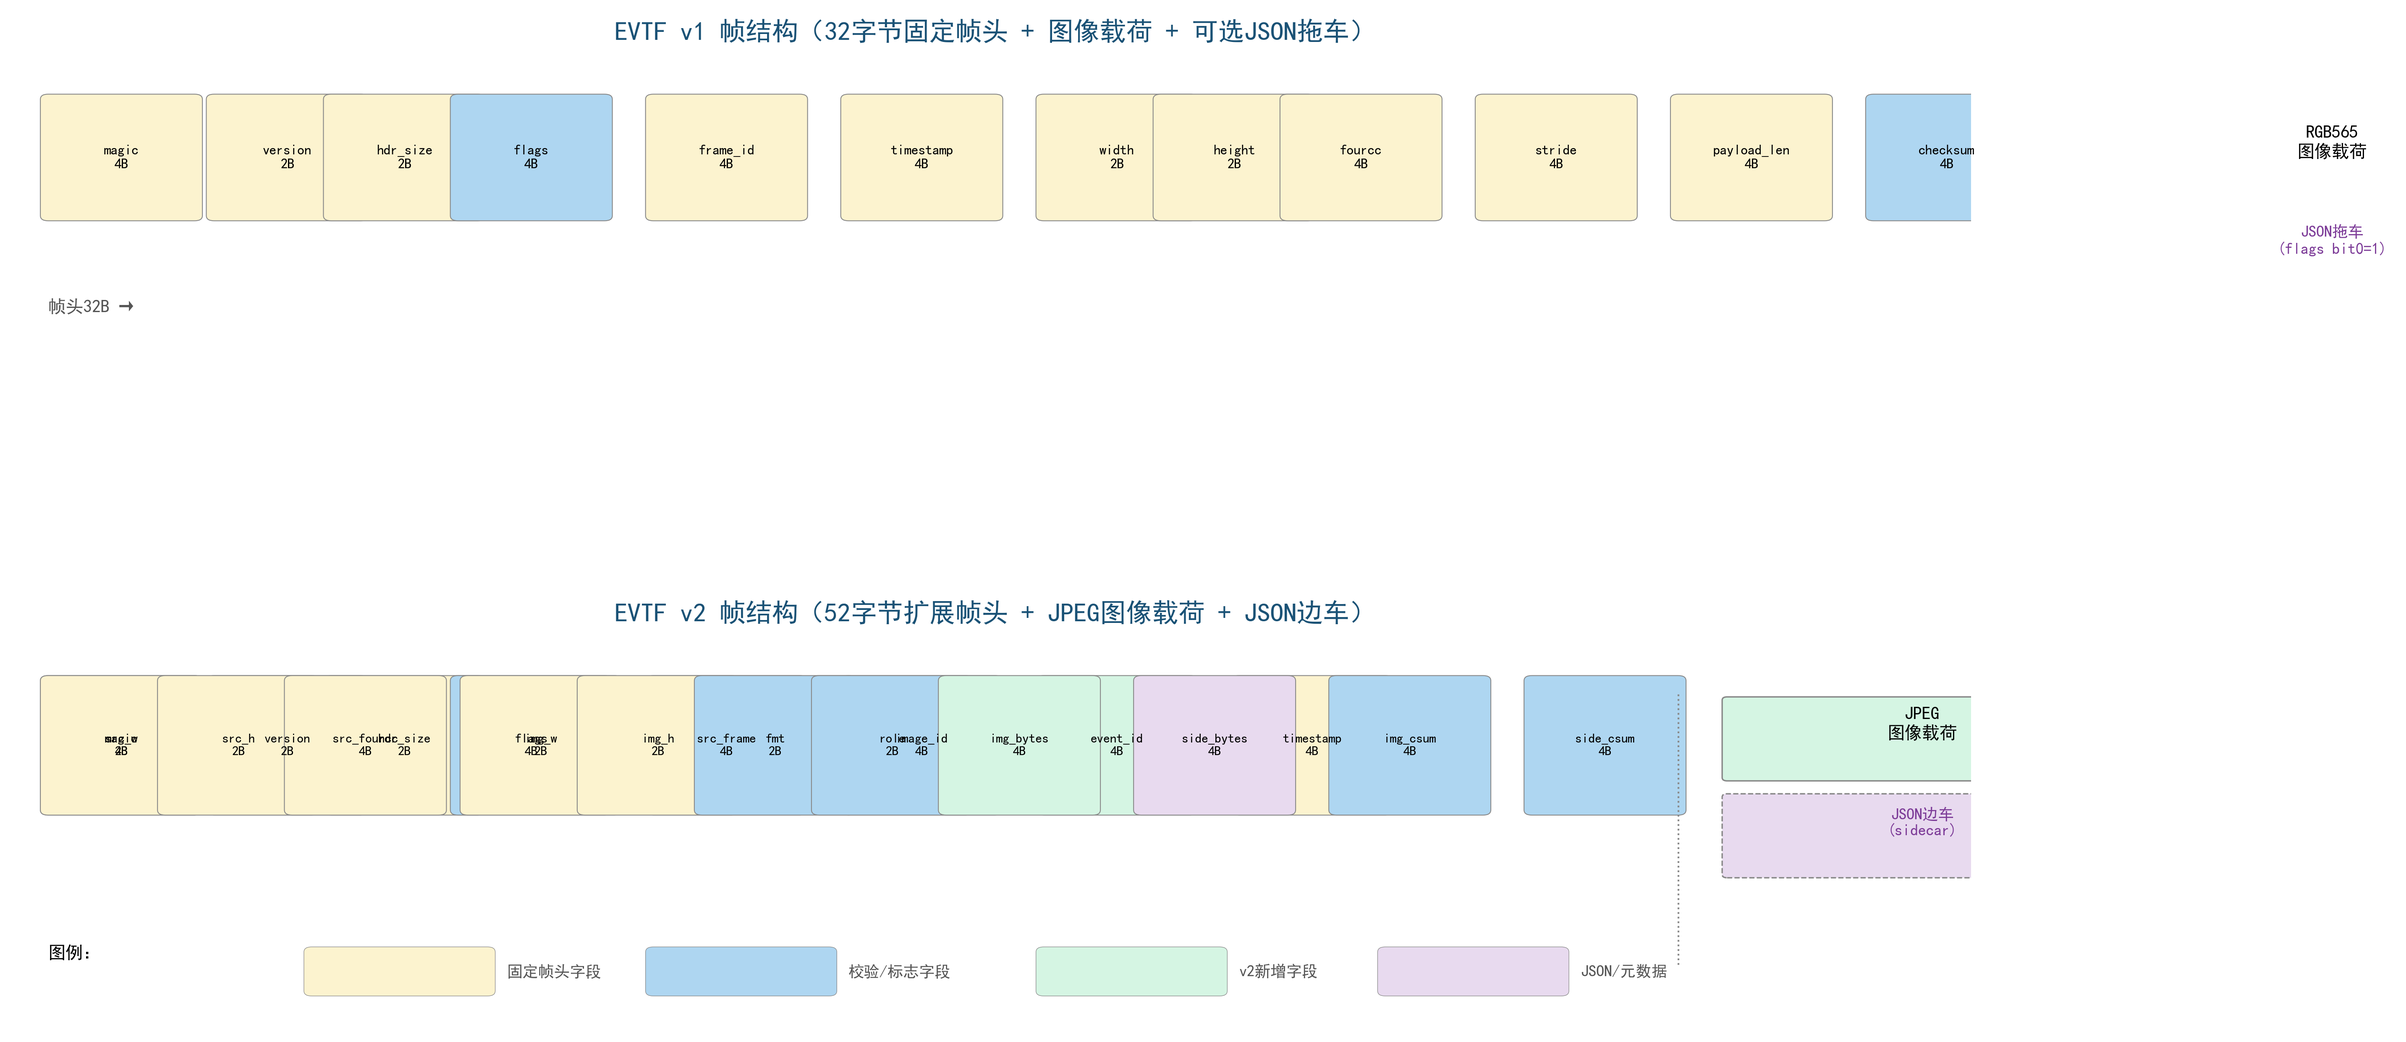
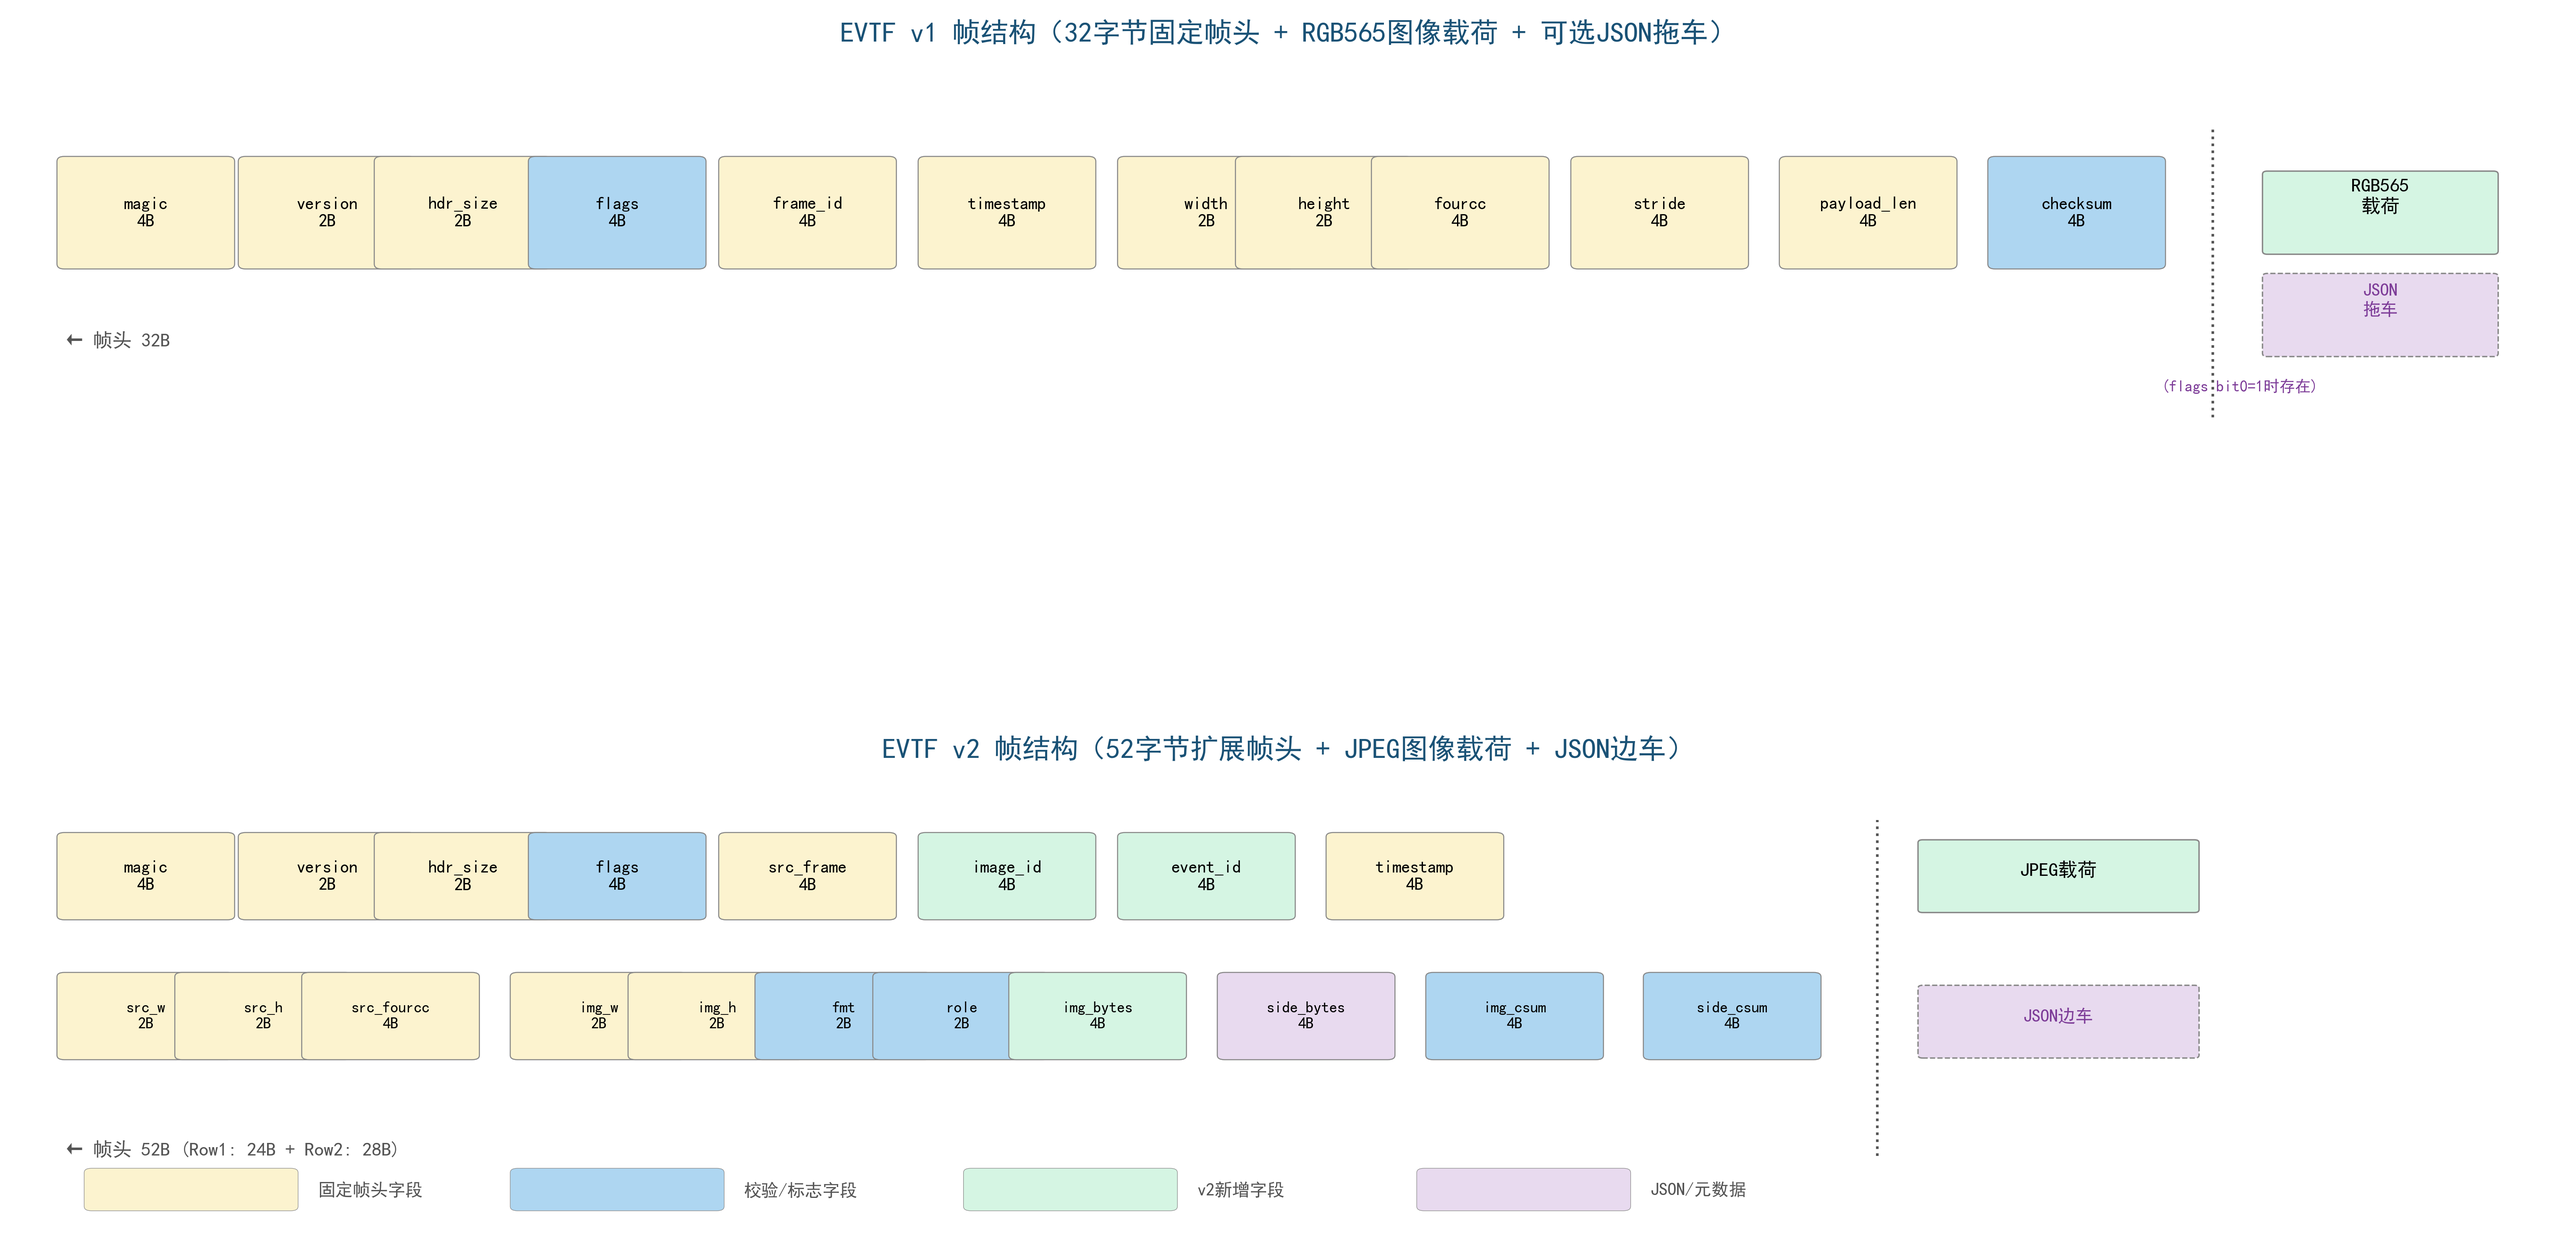
重绘图9-11：宽幅26inch、v2分两行排列字段、字体放大至10pt、右边界留足空间

diff --git a/tools/generate_figures.py b/tools/generate_figures.py
@@ -395,66 +395,77 @@ def fig_9_10():
 # 图9-11 EVTF v1/v2帧结构对比
 # ============================================================
 def fig_9_11():
-    fig, (ax1, ax2) = plt.subplots(2, 1, figsize=(20, 10))
-    fig.subplots_adjust(hspace=0.5)
+    """EVTF帧结构对比 — 宽幅单行布局，v1上 v2下，字段清晰可读"""
+    fig, (ax1, ax2) = plt.subplots(2, 1, figsize=(26, 12))
+    fig.subplots_adjust(hspace=0.6)
 
-    # === v1 ===
-    ax1.set_xlim(0, 20); ax1.set_ylim(0, 6); ax1.axis("off")
-    ax1.set_title("EVTF v1 帧结构（32字节固定帧头 + 图像载荷 + 可选JSON拖车）", fontsize=15, weight="bold", pad=8, color="#1A5276")
+    # === v1: 12 fields in one row ===
+    ax1.set_xlim(0, 28); ax1.set_ylim(0, 7); ax1.axis("off")
+    ax1.set_title("EVTF v1 帧结构（32字节固定帧头 + RGB565图像载荷 + 可选JSON拖车）",
+                  fontsize=16, weight="bold", pad=10, color="#1A5276")
 
-    v1_fields = [
-        ("magic\n4B", 0.3, "#FCF3CF"), ("version\n2B", 2.0, "#FCF3CF"), ("hdr_size\n2B", 3.2, "#FCF3CF"),
-        ("flags\n4B", 4.5, "#AED6F1"), ("frame_id\n4B", 6.5, "#FCF3CF"), ("timestamp\n4B", 8.5, "#FCF3CF"),
-        ("width\n2B", 10.5, "#FCF3CF"), ("height\n2B", 11.7, "#FCF3CF"), ("fourcc\n4B", 13.0, "#FCF3CF"),
-        ("stride\n4B", 15.0, "#FCF3CF"), ("payload_len\n4B", 17.0, "#FCF3CF"), ("checksum\n4B", 19.0, "#AED6F1"),
+    v1 = [
+        ("magic\n4B", 0.5, "#FCF3CF"), ("version\n2B", 2.5, "#FCF3CF"), ("hdr_size\n2B", 4.0, "#FCF3CF"),
+        ("flags\n4B", 5.7, "#AED6F1"), ("frame_id\n4B", 7.8, "#FCF3CF"), ("timestamp\n4B", 10.0, "#FCF3CF"),
+        ("width\n2B", 12.2, "#FCF3CF"), ("height\n2B", 13.5, "#FCF3CF"), ("fourcc\n4B", 15.0, "#FCF3CF"),
+        ("stride\n4B", 17.2, "#FCF3CF"), ("payload_len\n4B", 19.5, "#FCF3CF"), ("checksum\n4B", 21.8, "#AED6F1"),
     ]
-    for txt, x, c in v1_fields:
-        box(ax1, x, 3.5, 1.5, 1.8, txt, color=c, fontsize=8, bold=True, lw=0.5)
-    # 图像载荷
-    r1 = FancyBboxPatch((21.2, 3.8), 5, 1.2, boxstyle="round,pad=0.05",
+    for txt, x, c in v1:
+        box(ax1, x, 3.8, 1.8, 1.6, txt, color=c, fontsize=10, bold=True, lw=0.6)
+    # 分隔线 + 载荷/拖车标注
+    ax1.axvline(x=24.2, ymin=0.2, ymax=0.85, color="#555", lw=1.5, linestyle="dotted")
+    r1 = FancyBboxPatch((24.8, 4.0), 2.5, 1.2, boxstyle="round,pad=0.05",
                          facecolor="#D5F5E3", edgecolor="#888", linewidth=0.8)
-    ax1.add_patch(r1); ax1.text(23.7, 4.4, "RGB565\n图像载荷", ha="center", fontsize=10, weight="bold")
-    # JSON拖车
-    r2 = FancyBboxPatch((21.2, 2.3), 5, 1.2, boxstyle="round,pad=0.05",
+    ax1.add_patch(r1); ax1.text(26.05, 4.6, "RGB565\n载荷", ha="center", fontsize=11, weight="bold")
+    r2 = FancyBboxPatch((24.8, 2.4), 2.5, 1.2, boxstyle="round,pad=0.05",
                          facecolor="#E8DAEF", edgecolor="#888", linewidth=0.8, linestyle="dashed")
-    ax1.add_patch(r2); ax1.text(23.7, 2.9, "JSON拖车\n(flags bit0=1)", ha="center", fontsize=9, color="#7D3C98")
-    ax1.text(0.3, 2.0, "帧头32B →", fontsize=10, color="#555", style="italic")
-    ax1.axvline(x=21.0, ymin=0.15, ymax=0.85, color="#888", lw=1, linestyle="dotted")
+    ax1.add_patch(r2)
+    ax1.text(26.05, 3.0, "JSON\n拖车", ha="center", fontsize=10, color="#7D3C98", weight="bold")
+    ax1.text(24.5, 1.8, "(flags bit0=1时存在)", ha="center", fontsize=9, color="#7D3C98", style="italic")
+    ax1.text(0.5, 2.5, "← 帧头 32B", fontsize=11, color="#555", style="italic")
 
-    # === v2 ===
-    ax2.set_xlim(0, 20); ax2.set_ylim(0, 6); ax2.axis("off")
-    ax2.set_title("EVTF v2 帧结构（52字节扩展帧头 + JPEG图像载荷 + JSON边车）", fontsize=15, weight="bold", pad=8, color="#1A5276")
+    # === v2: two rows of fields ===
+    ax2.set_xlim(0, 28); ax2.set_ylim(0, 8); ax2.axis("off")
+    ax2.set_title("EVTF v2 帧结构（52字节扩展帧头 + JPEG图像载荷 + JSON边车）",
+                  fontsize=16, weight="bold", pad=10, color="#1A5276")
 
-    v2_fields = [
-        ("magic\n4B", 0.3, "#FCF3CF"), ("version\n2B", 2.0, "#FCF3CF"), ("hdr_size\n2B", 3.2, "#FCF3CF"),
-        ("flags\n4B", 4.5, "#AED6F1"), ("src_frame\n4B", 6.5, "#FCF3CF"), ("image_id\n4B", 8.5, "#D5F5E3"),
-        ("event_id\n4B", 10.5, "#D5F5E3"), ("timestamp\n4B", 12.5, "#FCF3CF"),
-        ("src_w\n2B", 0.3, "#FCF3CF"), ("src_h\n2B", 1.5, "#FCF3CF"), ("src_fourcc\n4B", 2.8, "#FCF3CF"),
-        ("img_w\n2B", 4.6, "#FCF3CF"), ("img_h\n2B", 5.8, "#FCF3CF"),
-        ("fmt\n2B", 7.0, "#AED6F1"), ("role\n2B", 8.2, "#AED6F1"),
-        ("img_bytes\n4B", 9.5, "#D5F5E3"), ("side_bytes\n4B", 11.5, "#E8DAEF"),
-        ("img_csum\n4B", 13.5, "#AED6F1"), ("side_csum\n4B", 15.5, "#AED6F1"),
+    # Row 1: first 8 fields (v1-compatible portion)
+    v2_r1 = [
+        ("magic\n4B", 0.5, "#FCF3CF"), ("version\n2B", 2.5, "#FCF3CF"), ("hdr_size\n2B", 4.0, "#FCF3CF"),
+        ("flags\n4B", 5.7, "#AED6F1"), ("src_frame\n4B", 7.8, "#FCF3CF"), ("image_id\n4B", 10.0, "#D5F5E3"),
+        ("event_id\n4B", 12.2, "#D5F5E3"), ("timestamp\n4B", 14.5, "#FCF3CF"),
     ]
-    for txt, x, c in v2_fields:
-        y = 3.5 if x < 14 else 3.5  # all on one row for v2
-        box(ax2, x, 3.3, 1.5, 2.0, txt, color=c, fontsize=7.5, bold=True, lw=0.5)
+    for txt, x, c in v2_r1:
+        box(ax2, x, 5.5, 1.8, 1.4, txt, color=c, fontsize=10, bold=True, lw=0.6)
 
-    # JPEG载荷
-    r3 = FancyBboxPatch((17.5, 3.8), 4, 1.2, boxstyle="round,pad=0.05",
+    # Row 2: remaining 10 fields (v2 extensions)
+    v2_r2 = [
+        ("src_w\n2B", 0.5, "#FCF3CF"), ("src_h\n2B", 1.8, "#FCF3CF"), ("src_fourcc\n4B", 3.2, "#FCF3CF"),
+        ("img_w\n2B", 5.5, "#FCF3CF"), ("img_h\n2B", 6.8, "#FCF3CF"),
+        ("fmt\n2B", 8.2, "#AED6F1"), ("role\n2B", 9.5, "#AED6F1"),
+        ("img_bytes\n4B", 11.0, "#D5F5E3"), ("side_bytes\n4B", 13.3, "#E8DAEF"),
+        ("img_csum\n4B", 15.6, "#AED6F1"), ("side_csum\n4B", 18.0, "#AED6F1"),
+    ]
+    for txt, x, c in v2_r2:
+        box(ax2, x, 3.0, 1.8, 1.4, txt, color=c, fontsize=9, bold=True, lw=0.6)
+
+    # 分隔线 + JPEG/Sidecar
+    ax2.axvline(x=20.5, ymin=0.15, ymax=0.9, color="#555", lw=1.5, linestyle="dotted")
+    r3 = FancyBboxPatch((21.0, 5.6), 3.0, 1.2, boxstyle="round,pad=0.05",
                          facecolor="#D5F5E3", edgecolor="#888", linewidth=0.8)
-    ax2.add_patch(r3); ax2.text(19.5, 4.4, "JPEG\n图像载荷", ha="center", fontsize=10, weight="bold")
-    # JSON边车
-    r4 = FancyBboxPatch((17.5, 2.3), 4, 1.2, boxstyle="round,pad=0.05",
+    ax2.add_patch(r3); ax2.text(22.5, 6.2, "JPEG载荷", ha="center", fontsize=11, weight="bold")
+    r4 = FancyBboxPatch((21.0, 3.0), 3.0, 1.2, boxstyle="round,pad=0.05",
                          facecolor="#E8DAEF", edgecolor="#888", linewidth=0.8, linestyle="dashed")
-    ax2.add_patch(r4); ax2.text(19.5, 2.9, "JSON边车\n(sidecar)", ha="center", fontsize=9, color="#7D3C98")
-    ax2.axvline(x=17.0, ymin=0.15, ymax=0.85, color="#888", lw=1, linestyle="dotted")
+    ax2.add_patch(r4)
+    ax2.text(22.5, 3.6, "JSON边车", ha="center", fontsize=10, color="#7D3C98", weight="bold")
+
+    ax2.text(0.5, 1.2, "← 帧头 52B (Row1: 24B + Row2: 28B)", fontsize=11, color="#555", style="italic")
 
     # 图例
-    ax2.text(0.3, 1.0, "图例：", fontsize=10, weight="bold")
-    for label, x, c in [("固定帧头字段", 3.0, "#FCF3CF"), ("校验/标志字段", 6.5, "#AED6F1"),
-                          ("v2新增字段", 10.5, "#D5F5E3"), ("JSON/元数据", 14.0, "#E8DAEF")]:
-        box(ax2, x, 0.5, 1.8, 0.6, "", color=c, fontsize=6, lw=0.3)
-        ax2.text(x+2.0, 0.8, label, fontsize=9, va="center", color="#555")
+    for i, (label, x, c) in enumerate([("固定帧头字段", 0.8, "#FCF3CF"), ("校验/标志字段", 5.5, "#AED6F1"),
+                          ("v2新增字段", 10.5, "#D5F5E3"), ("JSON/元数据", 15.5, "#E8DAEF")]):
+        box(ax2, x, 0.3, 2.2, 0.6, "", color=c, fontsize=6, lw=0.3)
+        ax2.text(x+2.5, 0.6, label, fontsize=10, va="center", color="#555")
 
     save(fig, "fig_9_11.png")
 
